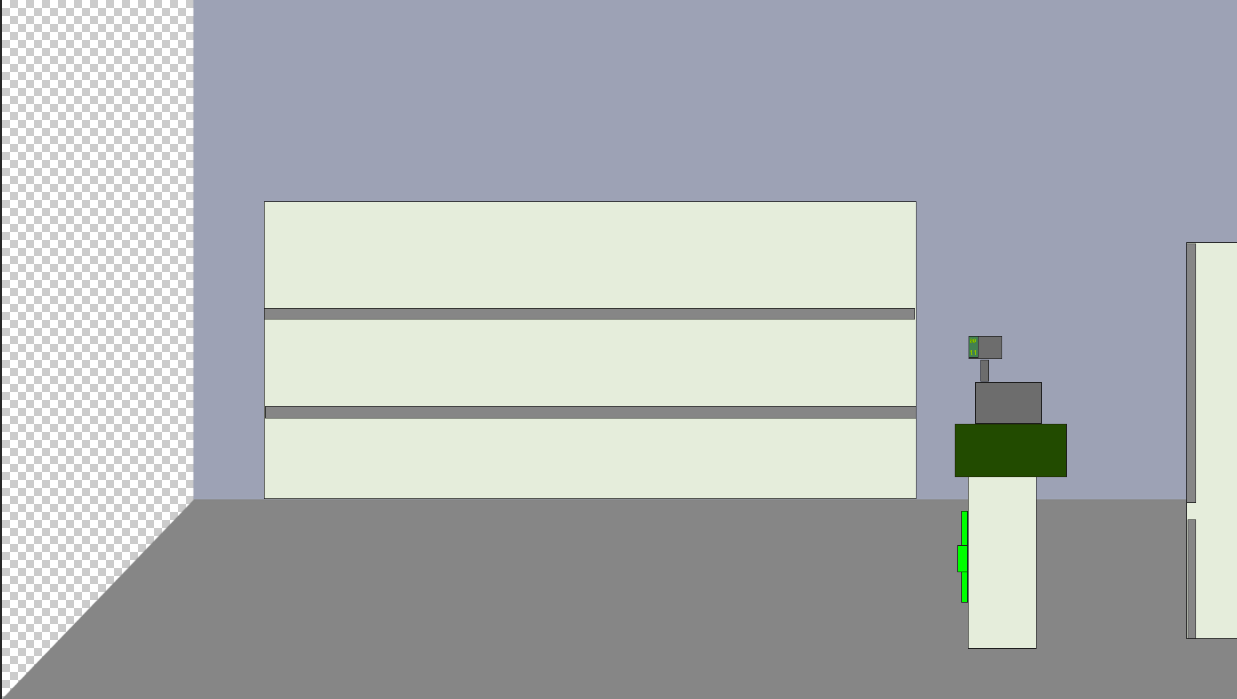
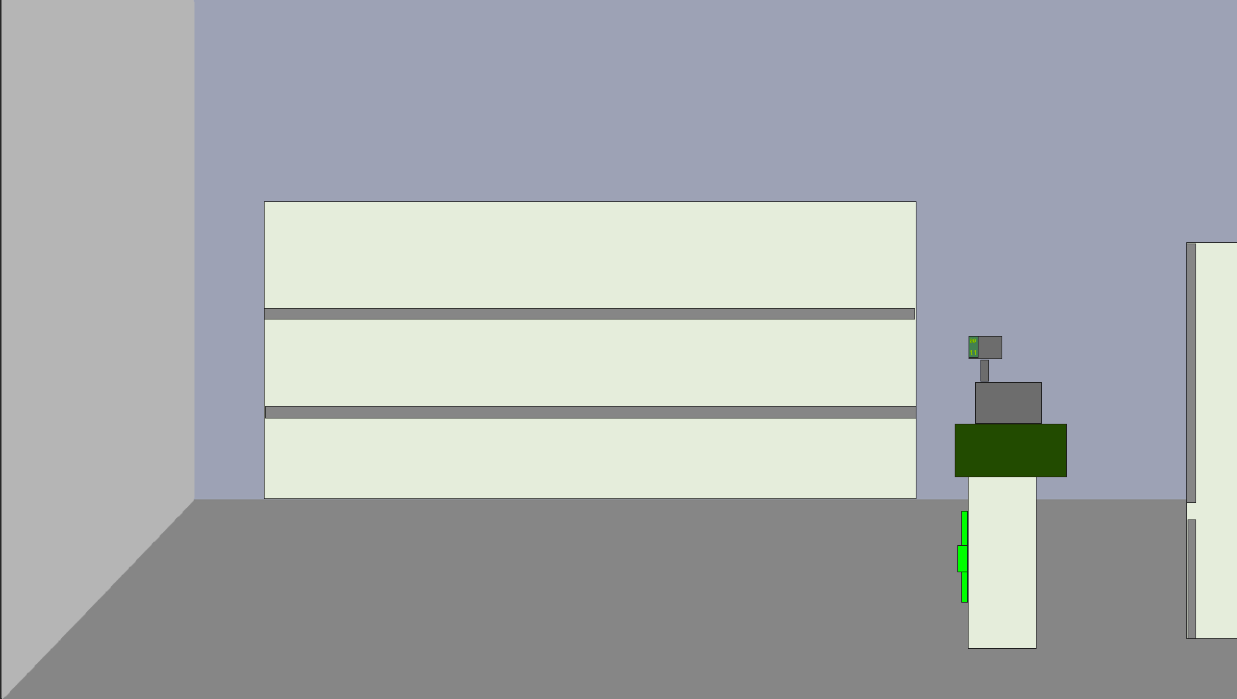
small fix for NPC small map fix graphocs improvements

Changed region(s): [[0.0, 0.0, 0.1536, 0.9914]]

diff --git a/multi_main.py b/multi_main.py
@@ -663,9 +663,9 @@ class Character(pygame.sprite.Sprite):
         self.mask = pygame.mask.from_surface(self.image)
         self.rect = self.image.get_rect()
         if random() > 0.5:
-            self.rect.x, self.rect.y = randint(100, 4000), randint(200, 300)
+            self.rect.x, self.rect.y = randint(100, 4000) + terrain.rect.x, randint(200, 300) + terrain.rect.y
         else:
-            self.rect.x, self.rect.y = randint(4000, 7500), randint(100, 200)
+            self.rect.x, self.rect.y = randint(4000, 7500) + terrain.rect.x, randint(100, 200) + terrain.rect.y
         self.image_num = 0
 
         self.prev_coords = 0, 0
@@ -675,7 +675,7 @@ class Character(pygame.sprite.Sprite):
         self.clock = pygame.time.Clock()
         self.side = 'left'
 
-        self.health = 100
+        self.health = 1000
         self.hazard_risk = 0
         self.danger_level = 1
         self.hazard_timer = 0
@@ -769,7 +769,7 @@ class Character(pygame.sprite.Sprite):
 
     def update(self, *args):
         if self.first_update:
-            if check_collisions(self):
+            if check_collisions(self) or (0 < self.rect.x < width and 0 < self.rect.y < height):
                 Character(npc_group, all_sprites)
                 self.kill()
                 return
@@ -2630,18 +2630,20 @@ box.rect.x, box.rect.y = 408, 1555
 # role = 'volunteer'
 
 # generating all objects
-for i in range(25):
-    Character(npc_group, all_sprites)
 
 player = Player(3850, 1000, role, player_group)  # 3850, 1000
 player.id = internal_id
 player.name = player_name
 terrain = Terrain(0, 0, all_sprites, terrain_group)
+
+for i in range(25):
+    Character(npc_group, all_sprites)
+
 bank = Bank(1400, 65, all_sprites, building_group)
 home = MainHouse(3710, 700, building_group, all_sprites)
 pharmacy = Pharmacy(6189, 325, building_group, all_sprites)
 shop = Shop(3650, 260, building_group, all_sprites)
-second_shop = SecondShop(7381, 400, building_group, all_sprites)
+second_shop = SecondShop(7350, 475, building_group, all_sprites)
 hospital = Hospital(580, 305, building_group, all_sprites)
 volunteer = Volunteers(4362, 225, building_group, all_sprites)
 
